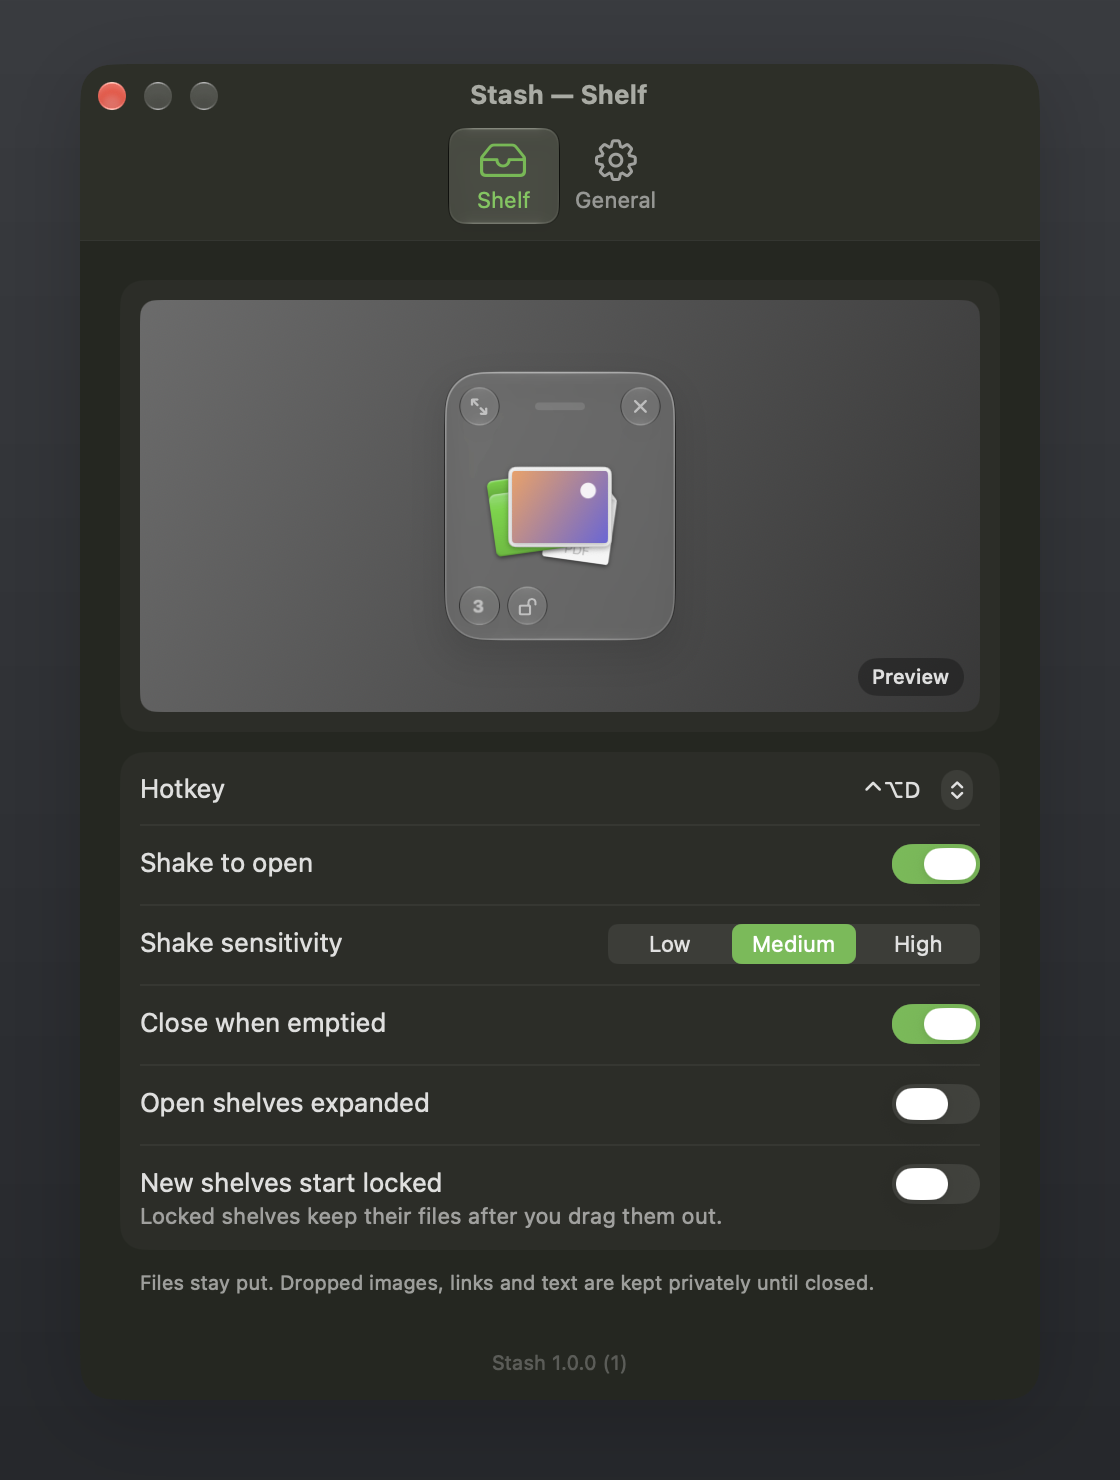
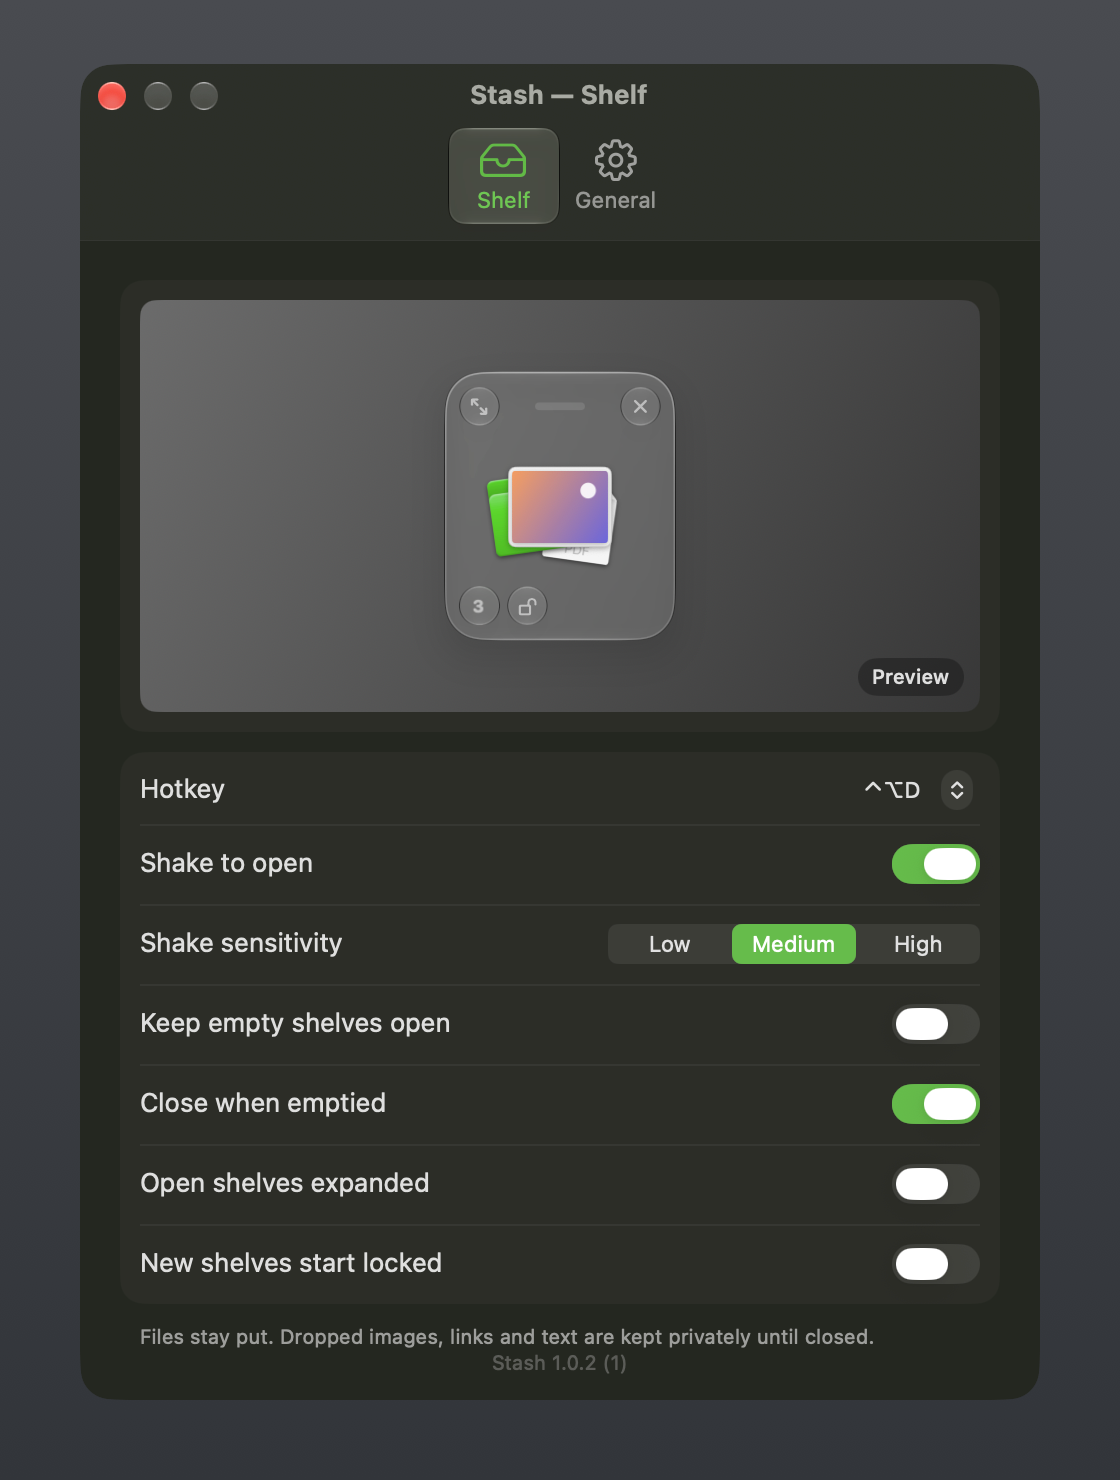
Version 1.0.2

diff --git a/Sources/Shake.swift b/Sources/Shake.swift
@@ -42,7 +42,7 @@ struct ShakeDetector {
         turns.removeAll()
     }
 
-    mutating func feed(x: CGFloat, time: TimeInterval) -> Bool {
+    mutating func feed(x: CGFloat, time: TimeInterval, canFire: Bool = true) -> Bool {
         guard let last = lastX else {
             lastX = x
             anchorX = x
@@ -65,7 +65,7 @@ struct ShakeDetector {
             anchorX = last
         }
         turns.removeAll { time - $0 > window }
-        if turns.count >= sensitivity.reversals {
+        if canFire, turns.count >= sensitivity.reversals {
             reset()
             return true
         }
@@ -91,12 +91,11 @@ final class DragShakeMonitor {
 
     private var downMonitor: Any?
     private var timer: Timer?
-    private var detector = ShakeDetector()
+    private var judge = DragJudge(sensitivity: .medium, downPoint: .zero, startedOnDock: false)
     private var dragCount = 0
     private var started = Date()
     private var downPoint = NSPoint.zero
     private var startedOnDock = false
-    private var sawDragEvents = false
     private var fired = false
     private var watcher: Timer?
     private var watcherRate: PollRate = .off
@@ -121,9 +120,8 @@ final class DragShakeMonitor {
             guard let self, Self.shouldStart(fromMonitor: true, buttonDown: true, wasDown: false, tracking: self.timer != nil) else { return }
             self.mouseDown()
         }
-        moveMonitor = NSEvent.addGlobalMonitorForEvents(matching: [.mouseMoved, .leftMouseDragged]) { [weak self] event in
+        moveMonitor = NSEvent.addGlobalMonitorForEvents(matching: [.mouseMoved, .leftMouseDragged]) { [weak self] _ in
             guard let self else { return }
-            if event.type == .leftMouseDragged, self.timer != nil { self.sawDragEvents = true }
             self.pointerMoved()
         }
         pointerMoved()
@@ -182,11 +180,63 @@ final class DragShakeMonitor {
         pasteboardHasFile || (startedOnDock && travel >= 20)
     }
 
-    static func countsAsContent(pasteboardHasFile: Bool, startedOnDock: Bool, dockSession: Bool,
-                                hiddenDrag: Bool, travel: CGFloat) -> Bool {
-        if pasteboardHasFile { return true }
-        guard travel >= hiddenTravel else { return false }
-        return startedOnDock || (dockSession && hiddenDrag)
+    static func countsAsContent(pasteboardHasFile: Bool, startedOnDock: Bool, dockDragWindow: Bool,
+                                travel: CGFloat) -> Bool {
+        if pasteboardHasFile || dockDragWindow { return true }
+        return startedOnDock && travel >= hiddenTravel
+    }
+
+    struct DragWindow: Equatable {
+        var owner: String
+        var layer: Int
+        var pid: Int
+    }
+
+    static var draggingLayer: Int { Int(CGWindowLevelForKey(.draggingWindow)) }
+
+    static func dockDragWindowPresent(_ windows: [DragWindow], ownPid: Int, draggingLayer: Int = 500) -> Bool {
+        windows.contains { $0.layer == draggingLayer && $0.owner == "Dock" && $0.pid != ownPid }
+    }
+
+    static func dragWindows() -> [DragWindow] {
+        guard let list = CGWindowListCopyWindowInfo(.optionOnScreenOnly, kCGNullWindowID) as? [[String: Any]] else { return [] }
+        let level = draggingLayer
+        return list.compactMap { w in
+            let layer = w[kCGWindowLayer as String] as? Int ?? 0
+            guard layer == level else { return nil }
+            return DragWindow(owner: w[kCGWindowOwnerName as String] as? String ?? "",
+                              layer: layer, pid: w[kCGWindowOwnerPID as String] as? Int ?? 0)
+        }
+    }
+
+    struct DragJudge {
+        var detector: ShakeDetector
+        var downPoint: CGPoint
+        var startedOnDock: Bool
+        var dockDragSeen = false
+        var lastWindowCheck: TimeInterval = -1
+        static let windowCheckInterval: TimeInterval = 0.1
+
+        init(sensitivity: Sensitivity, downPoint: CGPoint, startedOnDock: Bool) {
+            detector = ShakeDetector(sensitivity: sensitivity)
+            self.downPoint = downPoint
+            self.startedOnDock = startedOnDock
+        }
+
+        mutating func needsWindowCheck(at time: TimeInterval, pasteboardHasFile: Bool) -> Bool {
+            guard !dockDragSeen, !pasteboardHasFile else { return false }
+            guard lastWindowCheck < 0 || time - lastWindowCheck >= Self.windowCheckInterval else { return false }
+            lastWindowCheck = time
+            return true
+        }
+
+        mutating func feed(time: TimeInterval, point: CGPoint, pasteboardHasFile: Bool, dockDragWindow: Bool?) -> Bool {
+            if dockDragWindow == true { dockDragSeen = true }
+            let travel = hypot(point.x - downPoint.x, point.y - downPoint.y)
+            let content = DragShakeMonitor.countsAsContent(pasteboardHasFile: pasteboardHasFile, startedOnDock: startedOnDock,
+                                                           dockDragWindow: dockDragSeen, travel: travel)
+            return detector.feed(x: point.x, time: time, canFire: content)
+        }
     }
 
     private static var screenGeometry: [(frame: NSRect, visible: NSRect)] {
@@ -301,7 +351,6 @@ final class DragShakeMonitor {
         guard !Self.startsInOwnWindow(point, rects: ownRects()) else { return }
         dragCount = NSPasteboard(name: .drag).changeCount
         downPoint = point
-        sawDragEvents = false
         fired = false
         let strip = Self.inDockArea(point, screens: Self.screenGeometry)
         if strip { lastStrip = Date() }
@@ -315,7 +364,7 @@ final class DragShakeMonitor {
         case .skip:
             startedOnDock = false
         }
-        detector = ShakeDetector(sensitivity: sensitivity)
+        judge = DragJudge(sensitivity: sensitivity, downPoint: point, startedOnDock: startedOnDock)
         started = Date()
         timer?.invalidate()
         let t = Timer(timeInterval: 1.0 / 60.0, repeats: true) { [weak self] _ in self?.tick() }
@@ -338,12 +387,14 @@ final class DragShakeMonitor {
         }
         guard !fired else { return }
         let p = NSEvent.mouseLocation
-        let travel = hypot(p.x - downPoint.x, p.y - downPoint.y)
+        let time = Date().timeIntervalSince(started)
         let pbFile = isContentDrag(since: dragCount)
-        let hidden = !sawDragEvents && NSPasteboard(name: .drag).changeCount == dragCount
-        guard Self.countsAsContent(pasteboardHasFile: pbFile, startedOnDock: startedOnDock,
-                                   dockSession: dockSessionActive, hiddenDrag: hidden, travel: travel) else { return }
-        if detector.feed(x: p.x, time: Date().timeIntervalSince(started)) {
+        var dockWindow: Bool?
+        if judge.needsWindowCheck(at: time, pasteboardHasFile: pbFile) {
+            dockWindow = Self.dockDragWindowPresent(Self.dragWindows(), ownPid: Int(ProcessInfo.processInfo.processIdentifier),
+                                                    draggingLayer: Self.draggingLayer)
+        }
+        if judge.feed(time: time, point: p, pasteboardHasFile: pbFile, dockDragWindow: dockWindow) {
             fired = true
             onShake?(p)
         }

diff --git a/Sources/Settings.swift b/Sources/Settings.swift
@@ -21,7 +21,7 @@ final class SettingsModel: ObservableObject {
 }
 
 enum PreviewCue: Equatable {
-    case shake(amplitude: CGFloat)
+    case shake(amplitude: CGFloat, swings: Int)
     case hotkey(String)
 }
 
@@ -46,15 +46,23 @@ struct PreviewPlan: Equatable {
 
     static func amplitude(_ s: Sensitivity) -> CGFloat {
         switch s {
-        case .low: 16
-        case .medium: 10
-        case .high: 5
+        case .low: 40
+        case .medium: 26
+        case .high: 14
+        }
+    }
+
+    static func swings(_ s: Sensitivity) -> Int {
+        switch s {
+        case .low: 4
+        case .medium: 3
+        case .high: 2
         }
     }
 
     static func make(_ cfg: Config, reduceMotion: Bool) -> PreviewPlan {
         let cue: PreviewCue = cfg.shake
-            ? .shake(amplitude: reduceMotion ? 0 : amplitude(cfg.sensitivity))
+            ? .shake(amplitude: reduceMotion ? 0 : amplitude(cfg.sensitivity), swings: reduceMotion ? 0 : swings(cfg.sensitivity))
             : .hotkey(cfg.hotkey == "off" ? "New Shelf" : hotkeyName(cfg.hotkey))
         let drag = ShelfModel.dragOutPlan(locked: cfg.startLocked, moved: true, everything: true, autoClose: cfg.autoClose)
         let closes = drag.close
@@ -215,17 +223,17 @@ struct PreviewCueView: View {
     var body: some View {
         Group {
             switch driver.plan.cue {
-            case .shake(let amp):
+            case .shake(let amp, let swings):
                 DraggedFile()
                     .keyframeAnimator(initialValue: CGFloat(0), trigger: driver.cueToken) { content, x in
                         content.offset(x: x)
                     } keyframes: { _ in
-                        CubicKeyframe(amp, duration: 0.14)
-                        CubicKeyframe(-amp, duration: 0.18)
-                        CubicKeyframe(amp, duration: 0.18)
-                        CubicKeyframe(-amp, duration: 0.18)
-                        CubicKeyframe(amp, duration: 0.18)
-                        CubicKeyframe(0, duration: 0.14)
+                        KeyframeTrack {
+                            for i in 0..<(swings * 2) {
+                                CubicKeyframe(i % 2 == 0 ? amp : -amp, duration: i == 0 ? 0.12 : 0.16)
+                            }
+                            CubicKeyframe(0, duration: 0.12)
+                        }
                     }
             case .hotkey(let name):
                 Text(name)
